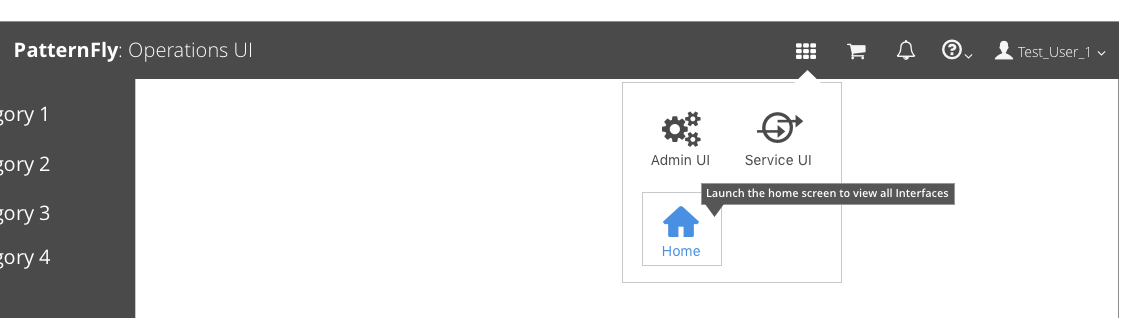
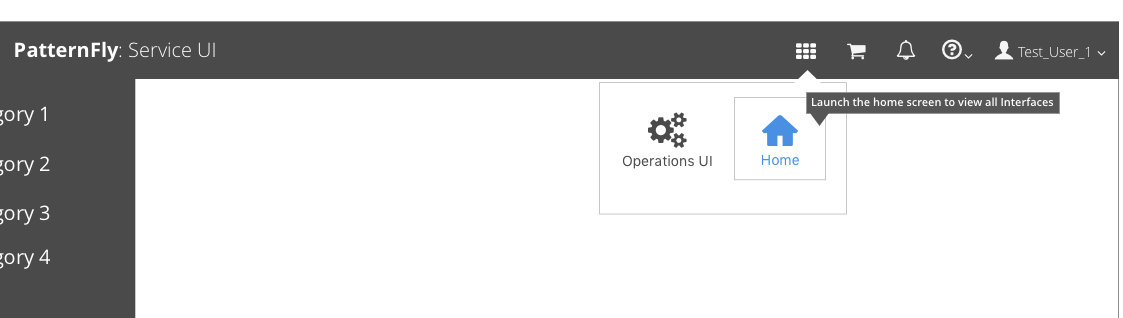
Updating images

diff --git a/UX/ui-service/Common/AppLauncher/design.md b/UX/ui-service/Common/AppLauncher/design.md
@@ -3,9 +3,7 @@
 * The Application Launcher should be used when more than one interface is available.
 * This widget makes it easier for the user to switch between different user interfaces without logging out.
 * The Application Launcher should be accessible from the masthead.
-
-![Application Launcher Icon](img/ApplicationSelector-01.png)
-
+* The example below shows how a user may launch the Operations UI from within the Service UI.
 ![Application Launcher Dropdown](img/ApplicationSelector-02.png)
 
 ## Properties
